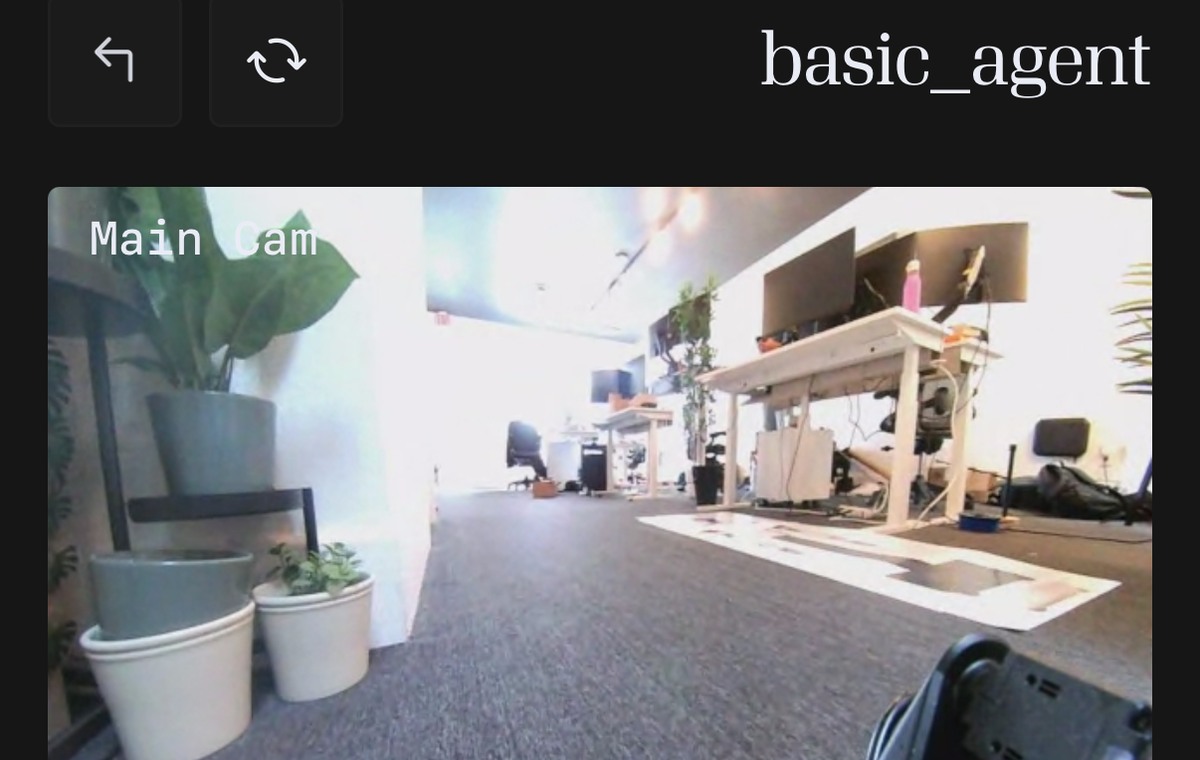
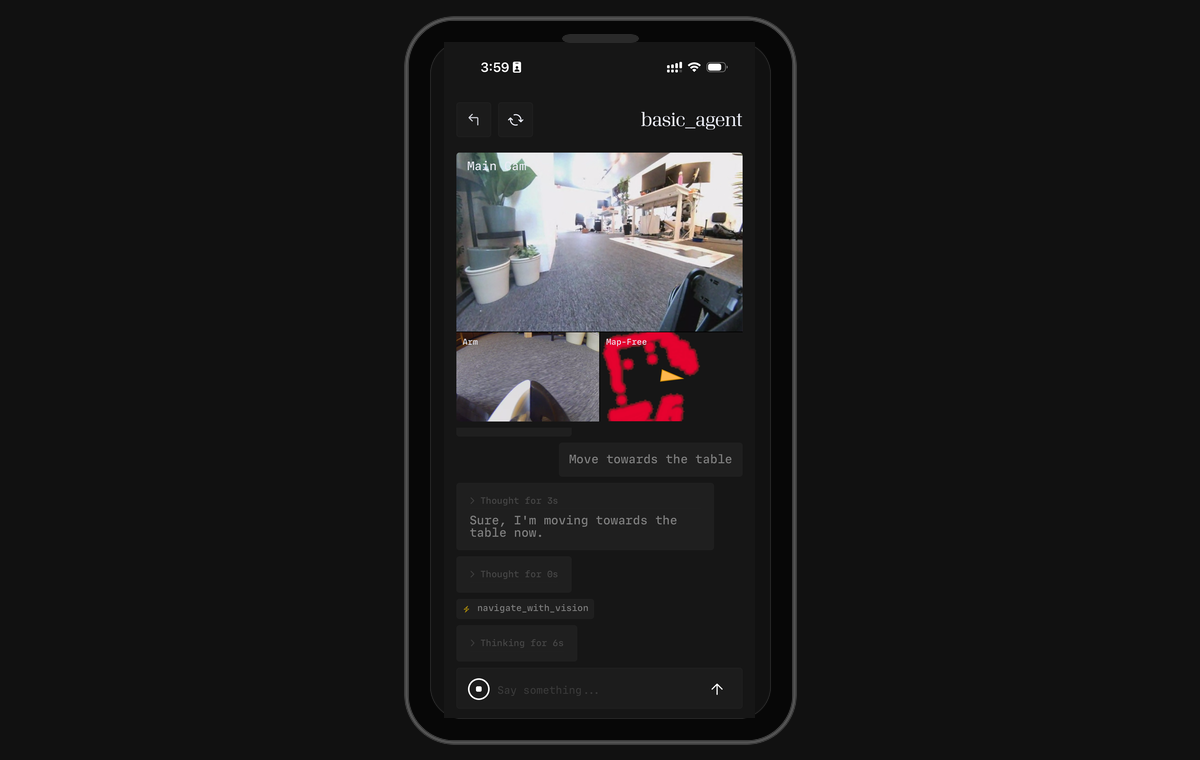
Refine README cards and mobile screenshot

diff --git a/README.md b/README.md
@@ -32,11 +32,11 @@ Innate OS is open source. If you made a robot compatible with it, [let us know](
 
 <table>
   <tr>
-    <td width="20%" valign="top"><a href="#skills"><strong>Skills</strong></a><br><sub>Teach actions.</sub></td>
-    <td width="20%" valign="top"><a href="#agents"><strong>Agents</strong></a><br><sub>Run autonomously.</sub></td>
-    <td width="20%" valign="top"><a href="#additional-inputs"><strong>Additional Inputs</strong></a><br><sub>Stream new data.</sub></td>
-    <td width="20%" valign="top"><a href="#simulator"><strong>Simulator</strong></a><br><sub>Test without hardware.</sub></td>
-    <td width="20%" valign="top"><a href="#ros-reference"><strong>ROS Reference</strong></a><br><sub>Work below the high-level API.</sub></td>
+    <td width="20%" valign="top"><a href="#skills"><strong>Skills</strong></a><br><sub>Teach actions.<br>Write code skills.<br>Trigger with one skill ID.</sub></td>
+    <td width="20%" valign="top"><a href="#agents"><strong>Agents</strong></a><br><sub>Run autonomously.<br>Use Innate's harness.<br>Or create your own.</sub></td>
+    <td width="20%" valign="top"><a href="#additional-inputs"><strong>Additional Inputs</strong></a><br><sub>Stream your data.<br>Add sensors.<br>Expose new components.</sub></td>
+    <td width="20%" valign="top"><a href="#simulator"><strong>Simulator</strong></a><br><sub>Test without hardware.<br>Run MARS locally.<br>Try skills and agents.</sub></td>
+    <td width="20%" valign="top"><a href="#ros-reference"><strong>ROS Reference</strong></a><br><sub>Work below the high-level API.<br>Inspect ROS 2 packages.<br>Change core services.</sub></td>
   </tr>
 </table>
 
